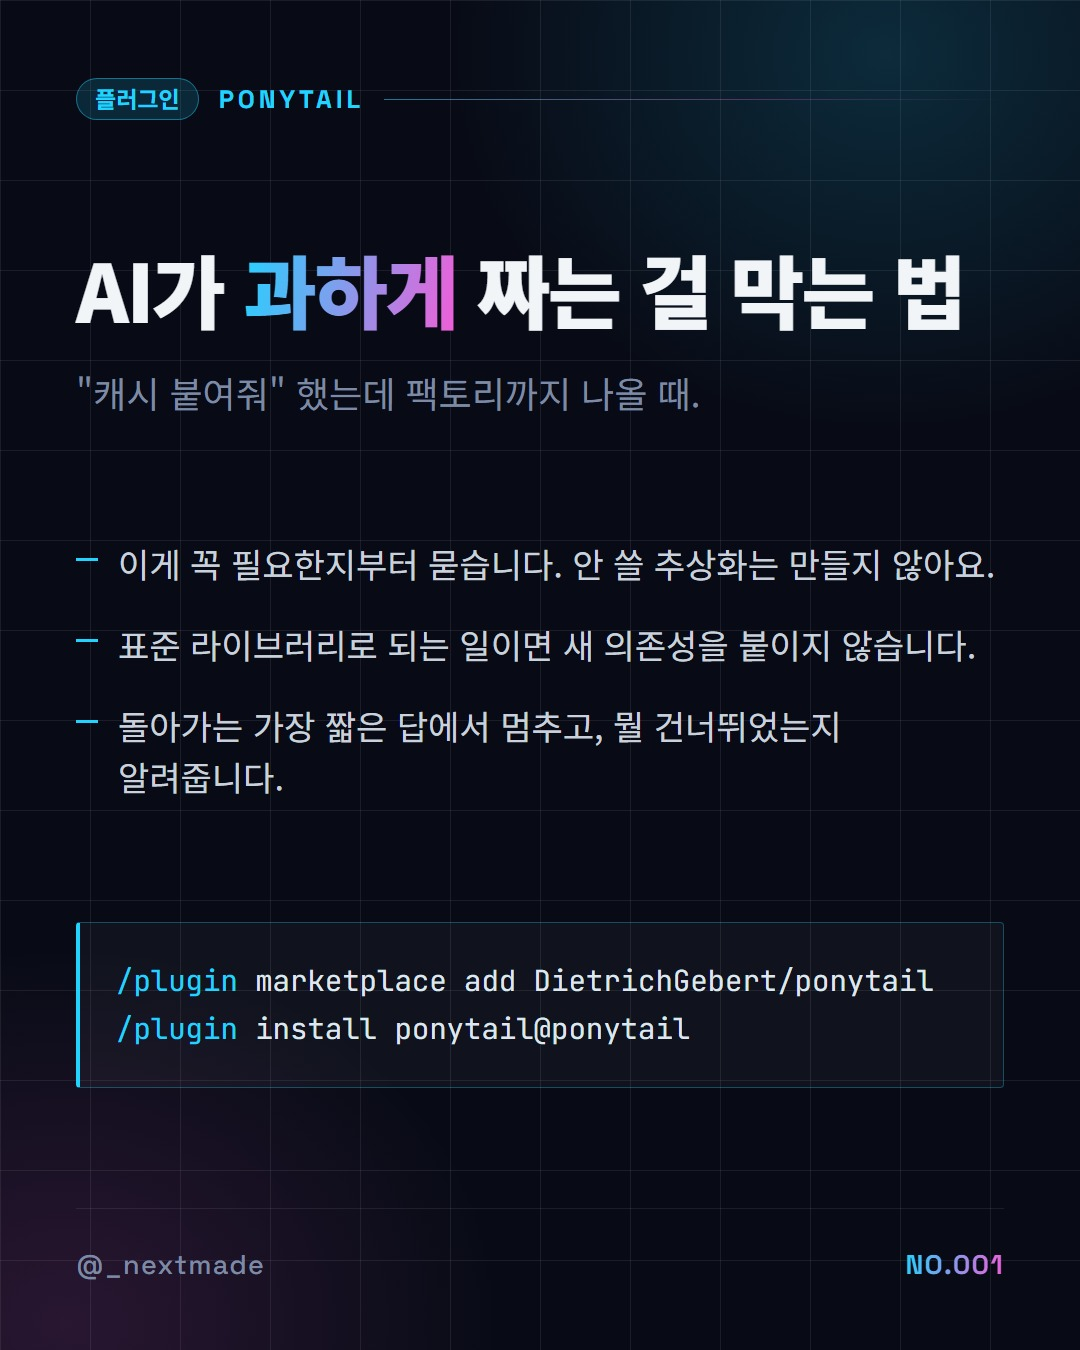
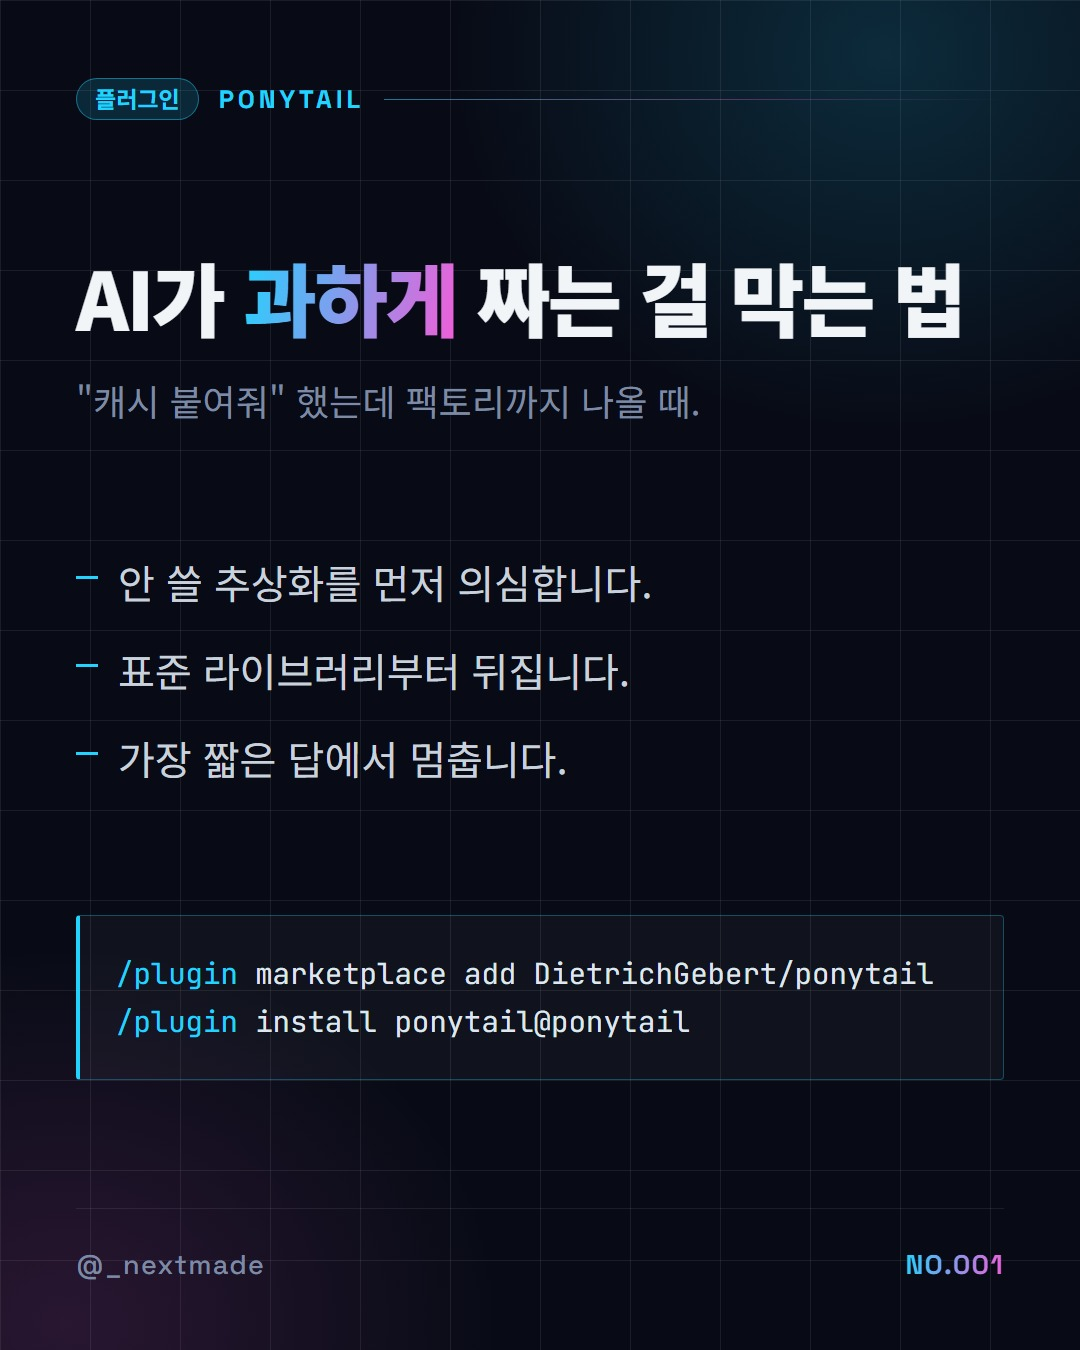
Keep the card terse, let the caption carry the detail
카드 본문을 설명형으로 늘렸다가 다시 짧게 되돌린다.
캡션이 상세 설명을 맡게 됐으니 카드까지 길 이유가 없다.

- points 34px -> 40px, 한 줄에 끝나는 길이로
- 스키마 상한 46자 -> 30자, '자세한 설명은 캡션이 맡으니 카드는 짧게' 명시
- 큐 6장 본문 원복

역할 분담: 카드는 훑고 지나가며 읽는 것, 캡션은 멈춰서 읽는 것.

Claude-Session: https://claude.ai/code/session_01Pgi9qNzz7ty1zwrrXg3EnP

diff --git a/insta/template.html b/insta/template.html
@@ -113,8 +113,8 @@ body {
 .points li {
   position: relative;
   padding-left: 42px;
-  font-size: 34px;
-  line-height: 1.5;
+  font-size: 40px;
+  line-height: 1.45;
   color: #c9d2dc;
   word-break: keep-all;
 }
@@ -122,7 +122,7 @@ body {
   content: "";
   position: absolute;
   left: 0;
-  top: 20px;
+  top: 23px;
   width: 22px;
   height: 3px;
   background: var(--accent);

diff --git a/insta/post.py b/insta/post.py
@@ -46,7 +46,7 @@ SCHEMA = {
         "lead": {"type": "string", "description": "제목 아래 한 줄. 이게 없을 때 뭐가 괴로운지. 32자 이내."},
         "points": {
             "type": "array",
-            "description": "카드 본문 3개. 각 46자 이내. 기능만 나열하지 말고 그게 뭘 해주는지 설명할 것.",
+            "description": "카드 본문 3개. 각 30자 이내, 한 줄에 끝나게. 자세한 설명은 캡션이 맡으니 카드는 짧게.",
             "items": {"type": "string"},
         },
         "code": {
